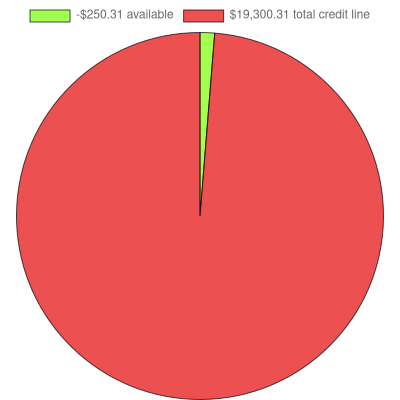
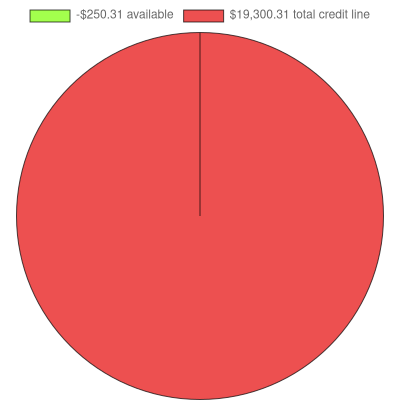
fix neg being graphed

Changed region(s): [[0.48, 0.06, 0.54, 0.54]]

diff --git a/chart-gen.js b/chart-gen.js
@@ -44,6 +44,8 @@ const generateBarChart = async (data, label, filename) => {
     await fs.writeFileSync(`./chart-images/${filename}.png`, buffer, 'base64');
 };
 
+const toZero = num => num < 0 ? 0 : num;
+
 const generatePieChart = async (data, label, filename) => {
   const width = 400;
   const height = 400;
@@ -57,7 +59,7 @@ const generatePieChart = async (data, label, filename) => {
           ],
           datasets: [{
               label,
-              data: [data[1] - data[0], data[0]],
+              data: [toZero(data[1] - data[0]), data[0]],
               backgroundColor: ['rgba(123, 255, 0, 0.7)', 'rgba(229, 5, 5, 0.7)'],
               borderColor: ['rgba(0, 0, 0, 0.7)', 'rgba(0, 0, 0, 0.7)'],
               borderWidth: 1

diff --git a/DEVLOG.md b/DEVLOG.md
@@ -42,6 +42,10 @@ There is a chart I wanted to make, it's a stacked area line graph kind of thing,
 
 I still don't feel like doing anything right now so probably not gonna write any code
 
+8:43 PM
+
+There is one thing I noticed that's wrong, negative balance shouldn't be treated as positive
+
 ---
 
 ### 05/21/2026